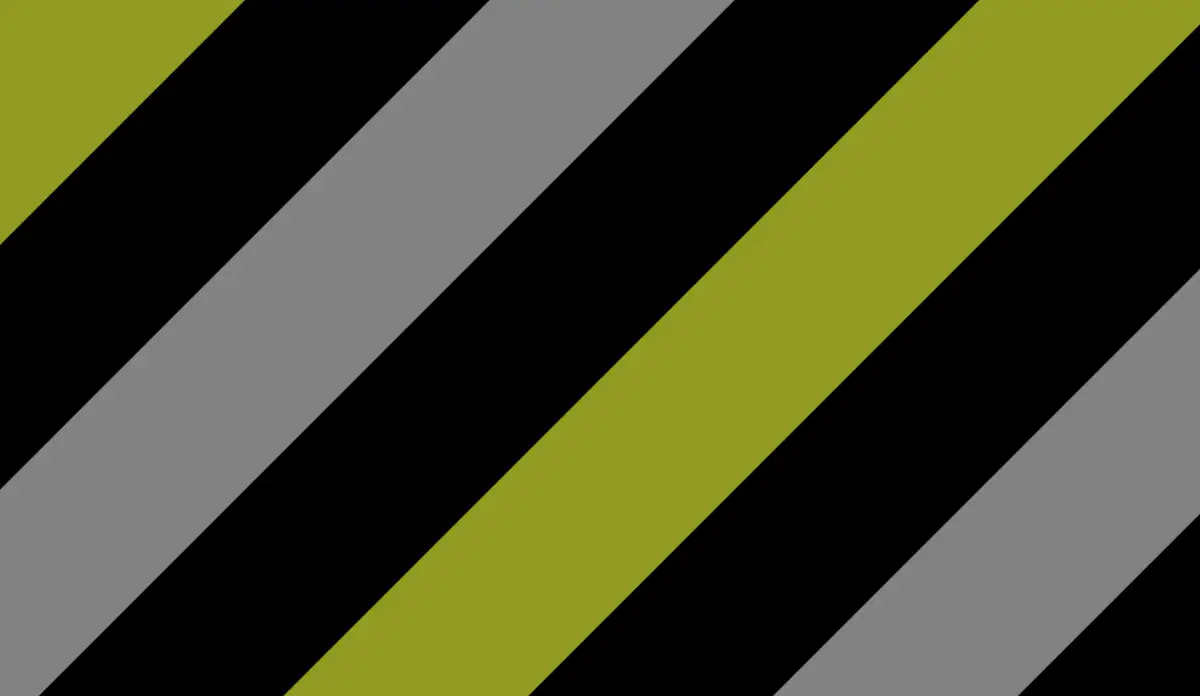
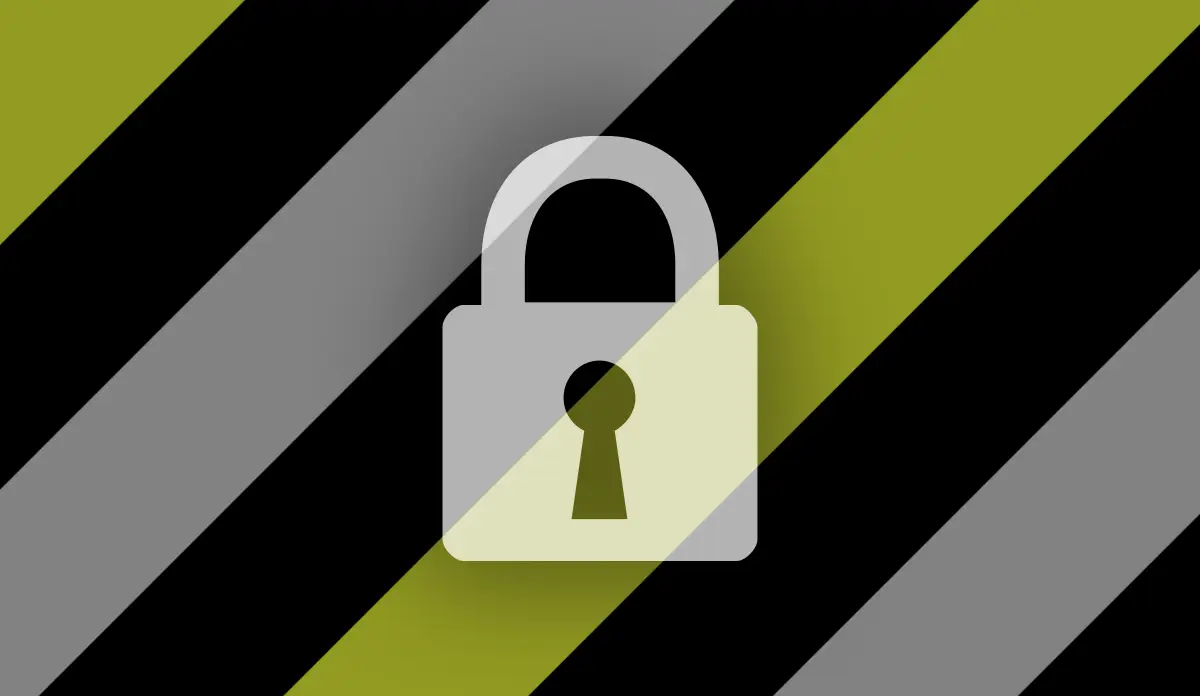
Added lock images to confidential projects. Fixed scroll cta reveal.

Changed region(s): [[0.3392, 0.1509, 0.6783, 0.875]]

diff --git a/frontend/src/components/home-page/header-main/Hero.module.scss b/frontend/src/components/home-page/header-main/Hero.module.scss
@@ -75,6 +75,9 @@ header.hero {
   transition:
     transform 0.8s,
     border 0.8s;
+  // Slide in once the user has collided the slinger (after the post-collision delay)
+  // Support both current and legacy flag names.
+  :global(.hasAfterCollidedDelay.notScrolledOut) &,
   :global(.hasSlungDelay.notScrolledOut) & {
     border: 0 !important;
     transform: translateX(0);
@@ -106,6 +109,10 @@ a.scrollCta {
   transition:
     opacity 0.5s,
     transform 0.5s !important;
+  // Start bouncing attention animation when visible and slinger is idle
+  // Prefer the newer flags, but keep legacy for safety.
+  :global(.hasAfterCollidedDelay.isSlingerIdle) &,
+  :global(.hasCollided.isSlingerIdle) &,
   :global(.hasSlung.isSlingerIdle) & {
     animation-play-state: running !important;
   }
